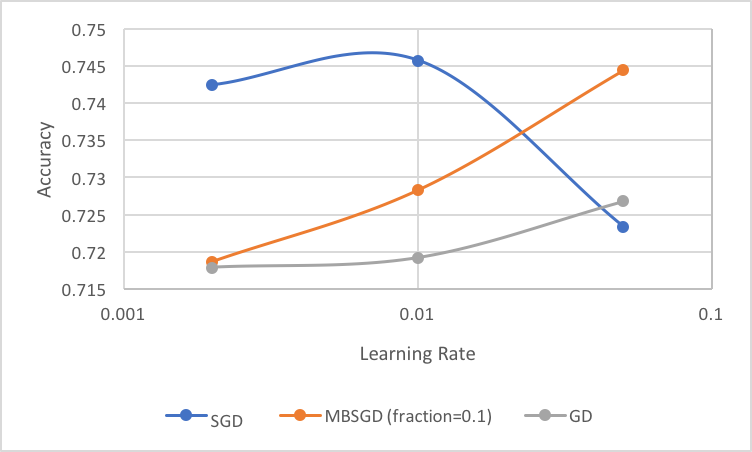
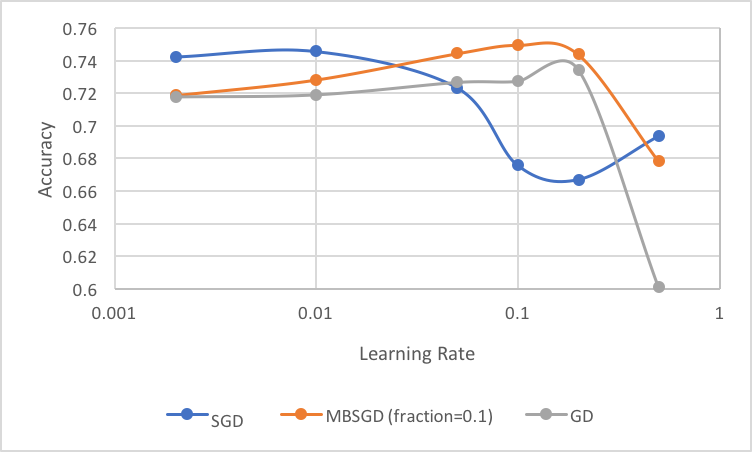
update report

diff --git a/report/report.tex b/report/report.tex
@@ -21,10 +21,10 @@
 \makeatother
 
 % DOI
-\acmDOI{10.475/123_4}
+% \acmDOI{10.475/123_4}
 
 % ISBN
-\acmISBN{123-4567-24-567/08/06}
+% \acmISBN{123-4567-24-567/08/06}
 
 %Conference
 \acmConference[CS 651]{Course Project}
@@ -32,14 +32,12 @@
 \copyrightyear{2018}
 
 
-\acmArticle{4}
-\acmPrice{15.00}
+% \acmArticle{4}
+% \acmPrice{15.00}
 
 % These commands are optional
 %\acmBooktitle{Transactions of the ACM Woodstock conference}
-\editor{Jennifer B. Sartor}
-\editor{Theo D'Hondt}
-\editor{Wolfgang De Meuter}
+\editor{Jimmy Lin}
 
 
 \begin{document}
@@ -71,7 +69,7 @@
 
 \begin{abstract}
 
-We present simple distributed implementations of logistic regression (LR) with several variants, including Gradient Descent (GD) based, Stochastic Gradient Descent (SGD) based and Mini-batch Stochastic Gradient Descent (MBSGD) based. Spark implementations with rigorous experiment results show that
+The project presents the simple distributed implementations of logistic regression (LR) with several variants, including Gradient Descent (GD) based, Stochastic Gradient Descent (SGD) based and Mini-batch Stochastic Gradient Descent (MBSGD) based ones. These implementations are tested on the sentiment analysis tasks, where detailed hyper-parameters analysis is provided. 
 
 \end{abstract}
 %
@@ -105,38 +103,40 @@ We present simple distributed implementations of logistic regression (LR) with s
 \end{CCSXML}
 
 
+% The default list of authors is too long for headers.
+% \renewcommand{\shortauthors}{Peng et al.}
+
 \keywords{Logistics regression, gradient decent, sentiment analysis}
 
 \maketitle
 
-
-
 \section{Introduction}
 \label{sec:introduction}
 
-Logistic Regression (LR) is a widespread and useful machine leaning algorithm in academia and industrial for its simplicity and effectiveness. However, as the data is creasing rapidly, these machine learning algorithms and tools are needed to be adapted to fit the big data. MapReduce \cite{dean2008mapreduce} is a popular algorithm in distributed computing area and Hadoop \cite{shvachko2010hadoop} and Spark \cite{zaharia2010spark} are two open-source framework for large-scale data processing. 
+Logistic Regression (LR) is a widespread and useful machine learning algorithm in academia and industrial for its simplicity and effectiveness. However, as the data is inflating rapidly, these machine learning algorithms and tools are needed to be adapted to fit the big data. MapReduce \cite{dean2008mapreduce} is a popular algorithm in distributed computing area while Hadoop \cite{shvachko2010hadoop} and Spark \cite{zaharia2010spark} are two open-source framework for large-scale data processing. 
 
-Today, big data community and machine learning community have developed rapidly and several machine learning frameworks for distributed computing have emerged, including MLLib, Mahout and RHadoop \cite{witten2016data}. However, for newbie to this area, these mature but complicated machine learning libraries are hard for them due to the compact structure and they have no idea to how to "get the hand dirty". 
+Today, big data community and machine learning community have sharply developed and several machine learning frameworks for distributed computing have emerged, including MLLib, Mahout and RHadoop \cite{witten2016data}. However, for newbie to this area, these mature but complicated machine learning libraries are hard due to the compact structure and they have no idea of how to "get the hand dirty". 
 
-In this paper, we provide simple but comprehensive implementations for logistic regression and its variants including different optimization method and regularization. These implementations provide the newbie a good change to learn the basic concept of logistic regression and its spark implementations. Furthermore, the newbie can start to learn to how to modify these simple code to enhance the implementation and even provide more functions. 
+In this paper, we provide simple but comprehensive implementations for logistic regression and its variants including different optimization methods and regularization. These implementations provide the beginner a good change to learn the basic concepts of logistic regression and its spark implementation. Furthermore, they can learn how to modify these simple code to enhance the implementation and even provide more functions. 
 
 We have following contributions:
 
-We offer several simple implementations for logistic regression and its variants. These implementations could be a guidance for newbie to distributed computing and machine learning. 
+We offer several simple implementations for logistic regression and its variants. These implementations could be a guidance of distributed computing and machine learning. 
 
-We ...
+We create a large tweets sentiment dataset with four-byte hashing feature, which can be used for further experiments.
 
-
+We provide rigorous hyper-parameter analysis for three variants of logistic regression implementations.
 
 \section{Background and Related Work}
 \label{sec:relatedWork}
 
-Let's start with an overview of machine learning. Given $X$ to be the input space while $Y$ the output space, the set of training samples $D = \big\{ (x_1, y_1), (x_2, y_2)...(x_n, y_n) \big\} $ from the space $X$ x $Y$ space, naming the labeled examples. Usually, $x_i$ is represents a featured vector where $x_i \in \mathbf{R}^d$. In supervised classification task, $y$ comes from a finite set. when in the binary classification, $y \in \big\{ -1, +1\big\} $. A function $f$: $X \Rightarrow Y$ describing the data characteristics is introduced in the supervised machine learning tasks. The optimized case will minimize the "loss" function $L$ that quantifiably measures the discrepancy between predicted $f(x_i)$ and the actual result $y_i$. Minimizing the quantity $\sum_{(x_i, y_i) \in D} L(f(x_i), y_i)$, th e best $f$ in the learned model is selected from a hypothesis space. Then it can be employed on previously unknown data to make predictions or offer predictive analysis. \cite{christopher2016pattern} \cite{franklin2005elements} Dealing with a two-class problem as the tweets sentiment, we apply the binary logistic regression to assign observations to  two classes. 
+Let's start with an overview of machine learning. Given $X$ to be the input space while $Y$ the output space, the set of training samples $D = \big\{ (x_1, y_1), (x_2, y_2)...(x_n, y_n) \big\} $ from the $X$ x $Y$ space, naming the labeled examples. Usually, $x_i$ represents a featured vector where $x_i \in \mathbf{R}^d$. In supervised classification task, $y_i$ comes from a finite set. when in the binary classification, $y \in \big\{ -1, +1\big\} $. A function $f$: $X \Rightarrow Y$ describing the data characteristics is introduced in the supervised machine learning tasks. The optimized case will minimize the "loss" function $L$ that quantifiably measures the discrepancy between predicted $f(x_i)$ and the actual result $y_i$. Minimizing the quantity $\sum_{(x_i, y_i) \in D} L(f(x_i), y_i)$, the best $f$ in the learned model is selected from a hypothesis space. Then it can be employed on previously unknown data to make predictions or offer predictive analysis. \cite{christopher2016pattern} \cite{franklin2005elements} Dealing with a two-class problem as the tweets sentiment, we apply the binary logistic regression to assign observations onto  two classes. 
 
-Three components are of most significance in the machine learning solutions: the data, feature extracted from the data, and the model. Among them, the size of the dataset is dominant given the accumulated real-world experience over the last decades. \cite{halevy2009unreasonable} \cite{lin2010data} Simple models on massive data perform better than sophisticated modes on small data. \cite{banko2001scaling} \cite{brants2007large}
+Three components are of the most significance in the machine learning solutions: the data, the features extracted from the data, and the model. Among them, the size of the dataset is dominant given the accumulated real-world experience over the last decades. \cite{halevy2009unreasonable} \cite{lin2010data} Simple models on massive data perform better than sophisticated modes on small data. \cite{banko2001scaling} \cite{brants2007large}
 
-The traditional machine learning assumed sequential algorithms on data are fit memory, which is no more realistic in the information bang era. Multi-core \cite{chu2007map} and cluster-based solutions \cite{agarwal2014reliable} offer new opportunities. Techniques occurs for example learning decision trees and the ensembles \cite{svore2011large}, MaxEnt models \cite{mcdonald2009efficient}, structured perceptrons \cite{mcdonald2010distributed} and so on. These approaches work well when 'data is king' for their ability to process massive amount of data. Despite the gaining popularization of large-scale learning, few published studies focus on machine learning \textit{workflows} and how such tools integrate with data management platforms. Google detects adversarial advertisements on Sculley et al. \cite{sculley2011detecting} Facebook builds its data platform on Hive. \cite{thusoo2010hive} Cohen et al. applies the integration of predictive analysis into traditional RDBMSes \cite{cohen2009mad}. 
+The traditional machine learning assumed sequential algorithms on data fit in memory, which is no more realistic in the information bang era. Multi-core \cite{chu2007map} and cluster-based solutions \cite{agarwal2014reliable} offer new opportunities. Techniques occurs for example learning decision trees and the ensembles \cite{svore2011large}, MaxEnt models \cite{mcdonald2009efficient}, structured perceptrons \cite{mcdonald2010distributed} and so on. These approaches work well when 'data is king' for their ability to process massive amount of data. Despite the gaining popularization of large-scale learning, few published studies focus on machine learning \textit{workflows} and how such tools integrate with data management platforms. Google detects adversarial advertisements on Sculley et al. \cite{sculley2011detecting} Facebook builds its data platform on Hive. \cite{thusoo2010hive} Cohen et al. applies the integration of predictive analysis into traditional RDBMSes \cite{cohen2009mad}. 
 
+\section{Base Algorithm}
 \subsection{Logistic Regression}
 \label{subsection:logistic}
 
@@ -148,12 +148,12 @@ F(x): \mathbf{R}^N \rightarrow \big\{ -1, +1 \big\}
 
 \begin{equation}
 F(x) = \begin{cases}
-    +1 if w \cdot x \geq t \\
-        -1 if w \cdot x < t 
+    +1 \quad if \ w \cdot x \geq t \\
+    -1 \quad if \ w \cdot x < t 
     \end{cases}
 \end{equation}
 
-where $t$ represents a decision threshold and $w$ is the weight vector. The modeling process usually optimizes the weight vector based on the training data $D$, and the decision threshold is subsequently tuned by various operational constraints. To learning $w$, lots of methods have been proposed to optimize different forms of loss functions or objective functions defined over the training data, where logistic regression is one particularly well-established technique interpreting the linear function $w \cdot x$ as the logarithmic odds of $x$ belonging to class +1 over -1, i.e., 
+where $t$ represents a decision threshold and $w$ is the weight vector. The modeling process usually optimizes the weight vector based on the training data $D$, and the decision threshold is subsequently tuned by various operational constraints. To learn $w$, lots of methods have been proposed to optimize different forms of loss functions or objective functions defined over the training data, where logistic regression is one particularly well-established technique interpreting the linear function $w \cdot x$ as the logarithmic odds of $x$ belonging to class +1 over -1, i.e., 
 
 \begin{equation}
 log[\frac{p(y=+1|x)}{p(y=-1|x)}] = w \cdot x
@@ -182,7 +182,7 @@ p(y=-1|x) &= 1-p(y=+1|x) \\
 
 In this project, three type of the variants are applied accordingly: Gradient Descent (GD) based, Stochastic Gradient Descent (SGD) based and Mini-batch Stochastic Gradient Descent (MBSGD) based.
 
-\subsubsection{Gradient Descent}
+\subsection{Gradient Descent}
 \label{subsection:logisticGD}
 
 Recall the basic Gradient Descent method, it is accomplished by adjusting the weight vector in the direction opposite to the gradient of log( $L$ )：
@@ -194,18 +194,18 @@ Recall the basic Gradient Descent method, it is accomplished by adjusting the we
 \end{split}
 \end{equation}
 
-\subsubsection{Stochastic Gradient Descent}
+\subsection{Stochastic Gradient Descent}
 \label{subsection:logisticSGD}
 
-While in GD the whole Training Set is considered before taking one Model Parameters Update Step, in SGD only one Data Point is considered for each Model Parameters Update Step, cycling over the Training Set. \cite{bottou2010large} In SGD update, the gradient is computed based on a single training instance, the update to the weight vector upon seeing the $i$th training example is given by 
+While in GD the whole training set is considered before taking one model parameters update step, in SGD only one data point is considered for each model parameters update step, cycling over the Training Set. \cite{bottou2010large} In SGD update, the gradient is computed based on a single training instance, the update to the weight vector upon seeing the $i$th training example is given by 
 
 \begin{equation}
-w \leftarrow w + \gamma \cdot [\lambda w + y_i \cdot p( y_i | x_i )(1-p( y_i | x_i ))]
+w \leftarrow w + \eta \cdot [ - \lambda w + y_i \cdot p( y_i | x_i )(1-p( y_i | x_i ))]
 \end{equation}
 
 Noted that each element in the weight vector is decayed at each iteration. However, when the feature vectors of training instances are very sparse (as is true for our project), we can simply delay the updates for features until they are actually seen. 
 
-\subsubsection{Mini-Batch Stochastic Gradient Descent}
+\subsection{Mini-Batch Stochastic Gradient Descent}
 \label{subsection:logisticMBSGD}
 
 Mini-Batch Stochastic Gradient Descent (MBSGD) \cite{ioffe2015batch} is a variation of the gradient descent algorithm that splits the training dataset into small batches that are used to calculate model error and update model coefficients. It chooses to sum the gradient over the mini-batch or take the average of the gradient which further reduces the variance of the gradient. Mini-batch gradient descent seeks to find a balance between the robustness of stochastic gradient descent and the efficiency of batch gradient descent. It is the most common implementation of gradient descent used in the field of deep learning.
@@ -213,15 +213,15 @@ Mini-Batch Stochastic Gradient Descent (MBSGD) \cite{ioffe2015batch} is a variat
 \subsection{Regularization}
 \label{subsection:regularization}
 
-Regularization is a concrete method for add a \textit{'penalty term'} to the optimization problem, such that more complex models includes a larger penalty. For the case of linear regression, the new optimization problem is to minimize
+Regularization is a concrete method for add a \textit{"penalty term"} to the optimization problem, such that more complex models includes a larger penalty. For the case of linear regression, the new optimization problem is to minimize
 
 $$
-MSE(w) + penalty(w).
+MSE(w) + penalty(w),
 $$
 
-where penalty $w$ is increasing with the 'complexity' of $w$. Therefore, a complex solution can be chosen over simple ones only if it leads to a big decrease in the mean-squared error.
+where penalty $w$ is increasing with the 'complexity' of $w$. Therefore, a complex solution can be chosen over simple one only if it leads to a big decrease in the mean-squared error.
 
-Many methods define the penalty term like \textit{ridge regression}, \textit{L2 regularization} and \textit{Tikhonov regularization}. In this project, we'll consider the most widely used one, \textit{ridge regression}.
+Many methods define the penalty term like \textit{ridge regression}, \textit{L2 regularization} and \textit{Tikhonov regularization}. In this project, we'll consider the \textit{ L2 regularization}.
 
 In this method, we define
 
@@ -231,10 +231,10 @@ $$
 
 where $\lambda$ is a positive \textit{'hyperparameter'}, a knob that allows you to trade-off smaller MSE. For more details, we refer the reader to the authoritative paper \cite{nasrabadi2007pattern}. 
 
-\section{Implementation}
+\section{Distributed Gradient Decent via Apache Spark}
 \label{sec:implementation}
 
-In this section, we describe our implementation details. 
+In this section, we describe our implementation details of three variants of gradient decent algorithm under the distributed setup. 
 
 With reading feature vector from text file, we push these text lines to mapper to parse and generate training and testing instances which is composed of document id (docid), label and feature vector. These instances are represented as a RDD and used for further processing. 
 
@@ -244,12 +244,9 @@ We describe three variants for the training processes including Gradient Descent
 \label{sec:implementationGD}
 
 With GD, the basic idea is to iterate all the training data and compute the averaged gradient descent based on global view (all training data). In general, the method to compute the averaged gradient is directly sum up all the gradient computed based on each instance and divided by the number of instances. However, because of the sparsity of the feature vectors (most of the slot of the feature vector are 0 and only small fraction are 1), the denominator will have negative effects on the magnitude of the gradient. More specifically, those feature only appear once or twice will in greatly affected because these value is divided by a large number (the total number of the instances). To tackle this problem, we compute the frequency of occurrence for each feature and use these frequencies as the regulators for the gradient computed in each iteration.
-
-In each iteration, the global weight is broadcast to all mappers. Here the \textit{mapPatition} is used instead of \textit{map}, because in the \textit{mapPartion}, the partially sum of the gradient can be computed and the global sum of the gradient can be computed on single reducer and update the global weight. This decision can greatly lesson the load for the single reducer.
-
 \begin{algorithm}
 \caption{GD}\label{GD}
-\begin{algorithmic}[h]
+\begin{algorithmic}[t]
 \Procedure{GradientDescent}{}
 \State $\textit{input} \gets \text{Read from file}$
 \State $\textit{inputFeatures} \gets \textit{input.map( }$
@@ -262,7 +259,7 @@ In each iteration, the global weight is broadcast to all mappers. Here the \text
 \BState \emph{top}:
 \State $\textit{w} \gets \textit{broadcast(globalWeight)}$
 \State $\textit{inputFeatures.mapPartition(}$
-\Statex \hspace{\algorithmicindent} $\textit{dw} \gets $
+\Statex \hspace{\algorithmicindent} $\textit{$\Delta$w} \gets $
 \Statex \hspace{\algorithmicindent}\hspace{\algorithmicindent} $\textit{compute gradient based on }$
 \Statex \hspace{\algorithmicindent} \hspace{\algorithmicindent}\hspace{\algorithmicindent} $\textit{this partition and sum them up}$ 
 \Statex $\textit{).collect}$
@@ -271,6 +268,10 @@ In each iteration, the global weight is broadcast to all mappers. Here the \text
 \EndProcedure
 \end{algorithmic}
 \end{algorithm}
+
+In each iteration, the global weight is broadcast to all mappers. Here the \textit{mapPatition} is used instead of \textit{map}, because in the \textit{mapPartion}, the partially sum of the gradient can be computed and the global sum of the gradient can be computed on single reducer and update the global weight. This decision can greatly lesson the load for the single reducer.
+
+
 
 
 
@@ -282,7 +283,7 @@ For Stochastic Gradient Descent (SGD), we add "dumpy key" for each instances to 
 
 \begin{algorithm}
 \caption{SGD}\label{SGD}
-\begin{algorithmic}[ ]
+\begin{algorithmic}[t]
 \Procedure{MiniBatchSGD}{}
 \State $\textit{input} \gets \text{Read from file}$
 \State $\textit{inputFeatures} \gets \textit{input.map( }$
@@ -295,7 +296,7 @@ For Stochastic Gradient Descent (SGD), we add "dumpy key" for each instances to 
 \State $\textit{samples} \gets \textit{inputFeatures.sample(fraction)}$
 \State $\textit{FeatureCounter} \gets $
 \State \hspace{\algorithmicindent}  $ \text{Count Feature Frequency of Occurrence }$
-\Statex \hspace{\algorithmicindent} $\textit{dw} \gets $
+\Statex \hspace{\algorithmicindent} $\textit{$\Delta$w} \gets $
 \Statex \hspace{\algorithmicindent}\hspace{\algorithmicindent} $\textit{compute gradient based on }$
 \Statex \hspace{\algorithmicindent} \hspace{\algorithmicindent}\hspace{\algorithmicindent} $\textit{this sample and sum them up }$ 
 \Statex \hspace{\algorithmicindent} \hspace{\algorithmicindent} \hspace{\algorithmicindent} $\textit{and regularized}$
@@ -306,9 +307,17 @@ For Stochastic Gradient Descent (SGD), we add "dumpy key" for each instances to 
 \end{algorithm}
 
 
+
+
+
+\subsection{Mini-Batch Stochastic Gradient Descent}
+\label{sec:implementationMBGD}
+
+The Mini-Batch Stochastic Gradient Descent (MBSGD) is the middle ground for GD and SGD. For the implementation, we use \textit{sample} to generate a small batch of training instance and apply the same implementation as the GD in the following step. More specifically, the averaged gradient is computed based on the small batch training instances and apply the update rules to the global weights. We need to notice that the denominator for each feature is counted based on this small batch size. 
+
 \begin{algorithm}
 \caption{MBSGD}\label{MBSGD}
-\begin{algorithmic}[ ]
+\begin{algorithmic}[t]
 \Procedure{StochasticGradientDescent}{}
 \State $\textit{input} \gets \text{Read from file}$
 \State $\textit{inputFeatures} \gets \textit{input.map( }$
@@ -318,29 +327,27 @@ For Stochastic Gradient Descent (SGD), we add "dumpy key" for each instances to 
 \State $\textit{globalWeight} \gets \text{Map[Int, Double]}$
 \BState \emph{top}:
 \State $\textit{for each instance}$
-\State \hspace{\algorithmicindent} $\textit{dw} \gets $
+\State \hspace{\algorithmicindent} $\textit{$\Delta$w} \gets $
 \State \hspace{\algorithmicindent}\hspace{\algorithmicindent} $\textit{compute gradient based on }$
 \Statex \hspace{\algorithmicindent} \hspace{\algorithmicindent}\hspace{\algorithmicindent} $\textit{this instance}$ 
-\State \hspace{\algorithmicindent} $\textit{globalWeight} \gets \textit{update with dw}$
+\State \hspace{\algorithmicindent} $\textit{globalWeight} \gets \textit{update with $\Delta$w}$
 \State \textbf{goto} \emph{top}.
 \EndProcedure
 \end{algorithmic}
 \end{algorithm}
 
+\subsection{Regularization}
+We apply the $L2$ regularization during the training according to the update rules which is stated in Section \ref{subsection:regularization} to the Apache Spark version. 
 
-\subsection{Mini-Batch Stochastic Gradient Descent}
-\label{sec:implementationMBGD}
+\section{Experiment}
+In this section, we experiment our logistic regression implementations on Tweets Sentiment Analysis task. More specifically, the task is a binary polarity classification task. That is, given a tweet, the classifier is to predict the sentiment of the tweet $y_i$ which belongs to $\{Negative, Positive\}$. We follow the \cite{lin2012large} to use the popular "emoticon trick" to generate the training and testing data. The intuition behind this is that tweets with positive emoticons or emoji, e.g., :-) and variants, express positive sentiment, and those with negative emoticons or emoji, e.g., :-( and variants express negative sentiment. However, we can not ensure that the data is in high quality because people can choose use some positive emoji to express some negative feeling, e.g., irony. Nevertheless, "emoticon trick" is a good mechanism for generating large training instances.
 
-The Mini-Batch Stochastic Gradient Descent (MBSGD) is the middle ground for GD and SGD. For the implementation, we use \textit{sample} to generate a small batch of training instance and apply the same implementation as the GD in the following step. More specifically, the averaged gradient is computed based on the small batch training instances and apply the update rules to the global weights. We need to notice that the denominator for each feature is counted based on this small batch size. 
-
-
-
-\subsection{Data Processing}
+\subsection{Data Preprocessing}
 \label{subsection:dataProcessing}
 
-We generate training and testing data in following procedures: First, we filter out the tweets whose language fields are English and classify them into two categories regarding their sentiment, which is determined by "emoticon trick". More specifically, if the tweet contains a emoji or emoticons which is in our positive list, then it will be put into positive pool, and in similar way we can generate negative pool. Those tweets tweets which do not contain any emoticons or emoji, or only contain those emoticons and emoji which are not appearing in our list, will not be considered in our experiments. Secondly, we regard each as a byte array and move a four-byte sliding window, with stride equals to one, along the array, and hash the contents of the bytes, the value of which is taken as the feature id. Features are treated as binary. 
+We generate training and testing data in following procedures: first, we extract the tweets from February 2013 to April 2018 whose language fields are English and classify them into two categories regarding their sentiment, which is determined by "emoticon trick". More specifically, if the tweet contains a emoji or emoticons which is in our positive list, then it will be put into positive pool, and in similar way we can generate negative pool. Those tweets tweets which do not contain any emoticons or emoji, or only contain those emoticons and emoji which are not appearing in our list, will not be considered in our experiments. Secondly, we regard each tweet as a byte array and move a four-byte sliding window, with stride equals to one, along the array, and hash the contents of the bytes. The hashed value is taken as the feature id. 
 
-After preprocessing, the  data is split into training and test set by the ratio 8:2. We try to ensure that the numbers of positive and negative samples in both training and test set are equal. The statistics of the clean dataset can be viewed in Table \ref{statistics}.
+After preprocessing, the  data is split into training and test set by the ratio 8:2. We try to ensure that the numbers of positive and negative samples in both training and test set are almost equal to avoid the skewed label distribution problem. The statistics of the clean dataset can be viewed in Table \ref{statistics}.
 
 \begin{table*}[t]
 \centering
@@ -358,23 +365,24 @@ File Size & 25 GB      & 6.1 GB    & 361 MB       & 73 MB       \\ \hline
 \subsection{Results}
 \label{subsection:results}
 
-The best performance of three variants of gradient decent is shown in Table \ref{res}.
+The best performance of three variants of gradient decent is shown in Table \ref{res}. For simplicity, we only report results from one setting (e.g. epoch, learning rate, batch size). More details analysis on effect of hyper-parameter will be discussed in \ref{subsection:ParameterAnalysis}. From Table \ref{res} we can see that MBSGD performs the best while GD gets the lowest accuracy among them in \textit{TEST\_SMALL} setting. We argue that this is because MBSGD updates the weight parameter for each mini batch, which combines the advantage of both SGD and GD: it cares about both the global trend of the gradient but also pay attention to some tricky sample clusters. Under \textit{TEST\_ALL} setting, we only can successfully experiment on MBSGD and encounter \textit{OutOfMemory} error under other two implementations. There are several reasons behind this. For example single machine might not have enough resource to host the training process under SGD setting. 
 
 \begin{table}[t]
 \centering
-\caption{Results }
+\caption{Results}
 \label{res}
 \begin{tabular}{c|c|c}
          &\bf TEST\_ALL &\bf TEST\_SMALL \\ \hline \hline
-GD &  & \\
-SGD &  & \\
-MBSGD &  & 
+GD & OOM &  0.7268\\
+SGD & OOM & 0.7457 \\
+MBSGD & 0.7529 (f = 0.01) / OOM (f = 0.1)  &  0.7496\\
 \end{tabular}
 \end{table}
 
 
 \subsection{Parameter Analysis}
-The parameter analysis of learning rate $\eta$ is shown in Figure \ref{lr}. We compare three GD variants with different learning rates ($\eta = 0.002, 0.01, 0.05$) on the small version of dataset. Other parameters are kept fixed ($\lambda$=0, epoch=3). From the result we can see that tuning the learning rate does help achieve better performance and different GD variants has different optimal learning rates.
+\label{subsection:ParameterAnalysis}
+The parameter analysis of learning rate $\eta$ is shown in Figure \ref{lr}. We compare three GD variants with different learning rates ($\eta = 0.002, 0.01, 0.05$) on the small version of dataset. Other parameters are kept fixed ($\lambda = 0$, $N = 3$). From the result we can see that tuning the learning rate does help achieve better performance and different GD variants has different optimal learning rates.
 
 \begin{figure}[ht]
 \centering
@@ -383,7 +391,7 @@ The parameter analysis of learning rate $\eta$ is shown in Figure \ref{lr}. We c
 \label{lr}
 \end{figure}
 
-The parameter analysis of regularization coefficient $\lambda$ is shown in Figure \ref{reg}. We compare three GD variants with different regularization coefficients ($\lambda = 0.00001, 0.0001, 0.001, 0.01, 0.05, 0.5$) on the small version of dataset. Other parameters are kept fixed ($\eta$=0, $N$=1). From the result we can see that tuning the regularization coefficient helps little for the final result and large $\lambda$ will harm the performance.
+The parameter analysis of regularization coefficient $\lambda$ is shown in Figure \ref{reg}. We run SGD with different regularization coefficients ($\lambda = 0.00001, 0.0001, 0.001, 0.01, 0.05, 0.5$) on the small version of dataset. Other parameters are kept fixed ($\eta$=0, $N$=1). From the result we can see that tuning the regularization coefficient helps little for the final result and large $\lambda$ will harm the performance.
 
 \begin{figure}[ht]
 \centering
@@ -392,7 +400,7 @@ The parameter analysis of regularization coefficient $\lambda$ is shown in Figur
 \label{reg}
 \end{figure}
 
-The parameter analysis of epoch $N$ is shown in Figure \ref{reg}. We compare three GD variants with different number of epochs ($N = 1, 2, 3, 4$) on the small version of dataset. Other parameters are kept fixed ($\eta$=0, $\lambda$=0.002). From the result we can see that after one epoch, on the other words, after the model goes through the whole dataset for one pass, the performance tends to converge.
+The parameter analysis of epoch $N$ is shown in Figure \ref{reg}. We compare three GD variants with different numbers of epochs ($N = 1, 2, 3, 4$) on the small version of dataset. Other parameters are kept fixed ($\eta$=0, $\lambda$=0.002). From the result we can see that after one epoch, on the other words, after the model goes through the whole dataset for one pass, the performance tends to converge.
 
 \begin{figure}[ht]
 \centering
@@ -400,6 +408,17 @@ The parameter analysis of epoch $N$ is shown in Figure \ref{reg}. We compare thr
 \caption{Parameter Analysis on Epoch}
 \label{epoch}
 \end{figure}
+
+The parameter analysis of batch fraction $f$ is shown in Figure \ref{frac}. We run MBSGD with different numbers of fractions ($f = 0.01, 0.1, 1$) on the small version of dataset. Other parameters are kept fixed ($\eta = 0$, $\lambda = 0.002$, $N = 3$). From the result we can see that smaller fraction will bring better performance. Note that when $f = 1$, all tweets are sampled for each iteration, which means now MBSGD is essentially the same with GD. Under large fraction setting, the algorithm uses less iterations in one epoch and to achieve same accuracy, epoch number N needs to be larger. 
+
+\begin{figure}[ht]
+\centering
+\includegraphics[width=0.48\textwidth]{fraction.png}
+\caption{Parameter Analysis on Batch Fraction}
+\label{frac}
+\end{figure}
+
+
 
 \section{Conclusion and Future Work}
 \label{sec:conclusionAndFutureWork}
@@ -412,7 +431,7 @@ In this project, we summarize our contributions in three points:
 \item We provide the parameter analysis for the three variants of gradient decent on a subset of the whole data.
 \end{enumerate}
 
-In the future, we plan to implement more fancy optimization tricks such as momentum, nesterov and so on. We are also interested in comparing the time efficiency of different variants of gradient decent under the setup of large-scale training data.
+In the future, we plan to implement more fancy optimization tricks such as momentum, nesterov, learning rate decay and so on. We are also interested in comparing the time efficiency of different variants of gradient decent under the setup of large-scale training data.
 
 
 % OBLIGATORY: use BIBTEX formatting!
